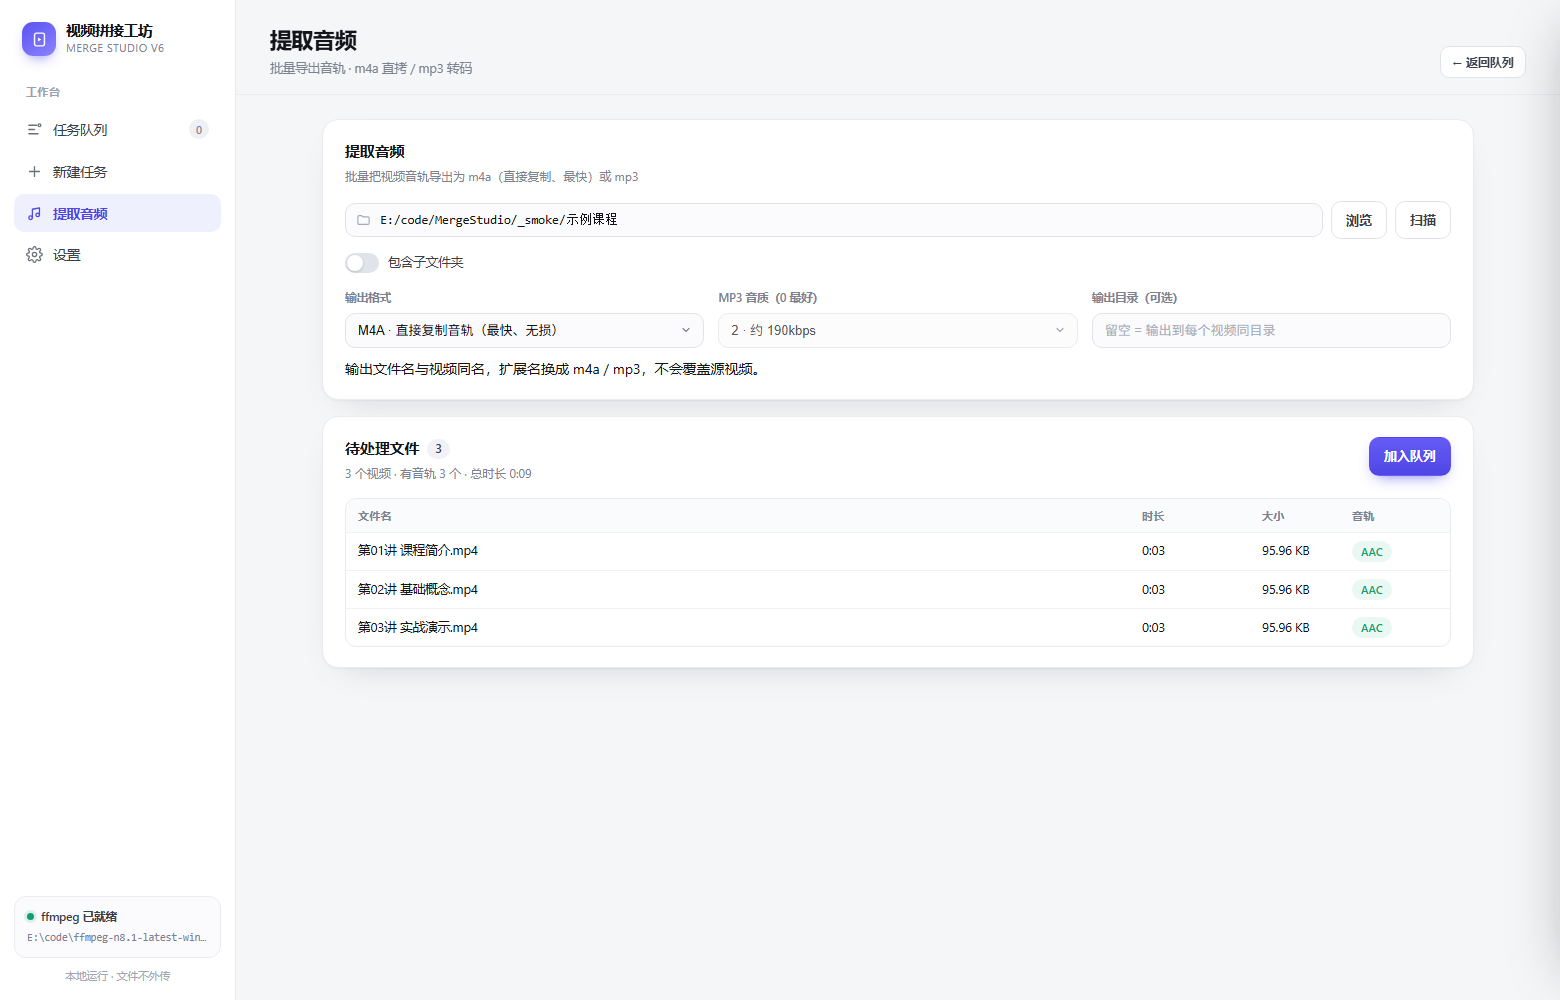
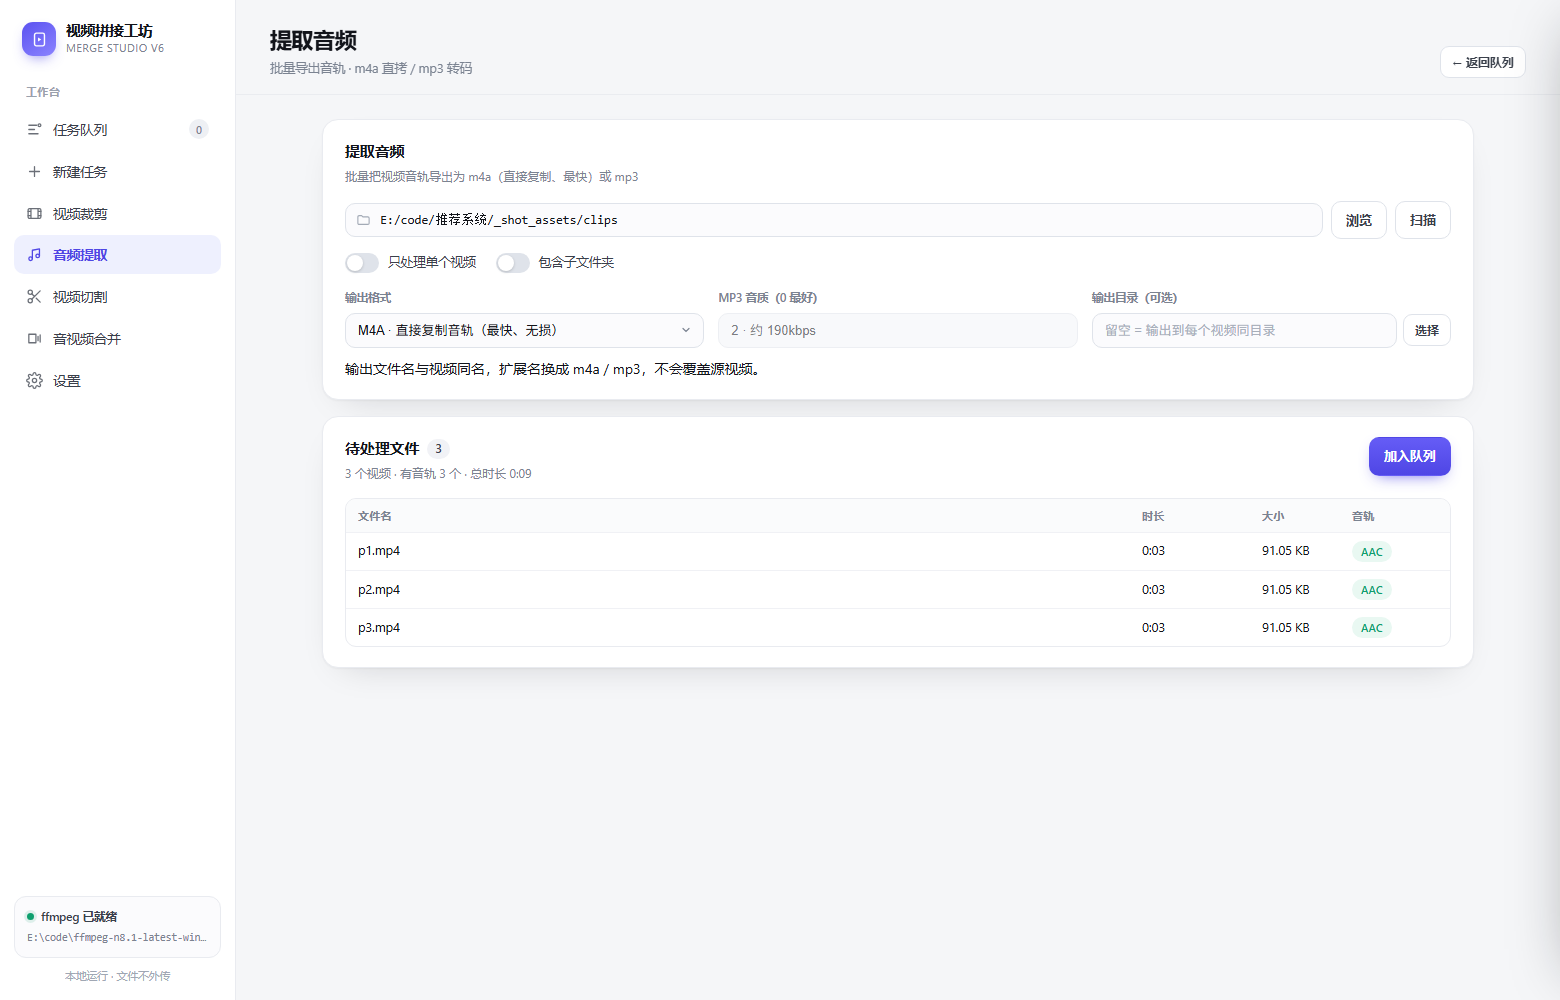
docs: 重截全部页面截图，同步 GitHub 预览到 v6.5
旧截图是 v6.0/6.1 时代的布局，GitHub README 里显示的还是旧界面。
用无头 Chrome 跑当前版本逐个页面重截，并换用干净的演示数据，
避免把本机任务标题与路径暴露在公开仓库。

- queue.png   队列页（3 条示例任务）
- crop.png    新建任务：预检清单 + 裁剪预览
- single.png  视频裁剪页（新增「单个视频 / 批量文件夹」模式切换）
- audio.png   提取音频：扫描结果
- split.png   视频切割：按章节生成方案
- mux.png     音视频合并
- settings.png（新增）运行与提醒：同名输出策略 / 通知 / 托盘 / 编码器诊断

README 截图表格同步更新标题，并加入设置页截图。

diff --git a/README.md b/README.md
@@ -73,17 +73,17 @@
 
 ## 截图
 
-| 单个视频 · 去水印 / 裁剪 | 合并任务 · 预检 + 批量裁剪 |
+| 视频裁剪 · 单个 / 批量 | 新建任务 · 预检 + 裁剪预览 |
 | --- | --- |
-| ![单视频](docs/screenshots/single.png) | ![裁剪](docs/screenshots/crop.png) |
+| ![视频裁剪](docs/screenshots/single.png) | ![裁剪](docs/screenshots/crop.png) |
 
 | 提取音频 | 音视频合并 |
 | --- | --- |
 | ![音频](docs/screenshots/audio.png) | ![合并](docs/screenshots/mux.png) |
 
-按章节切割，逐段勾选要导出的内容：
-
-![切割](docs/screenshots/split.png)
+| 视频切割 · 按章节勾选 | 设置 · 同名输出 / 通知 / 托盘 |
+| --- | --- |
+| ![切割](docs/screenshots/split.png) | ![设置](docs/screenshots/settings.png) |
 
 ## 环境要求
 
